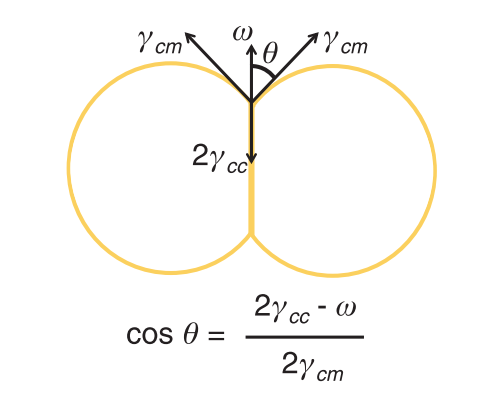
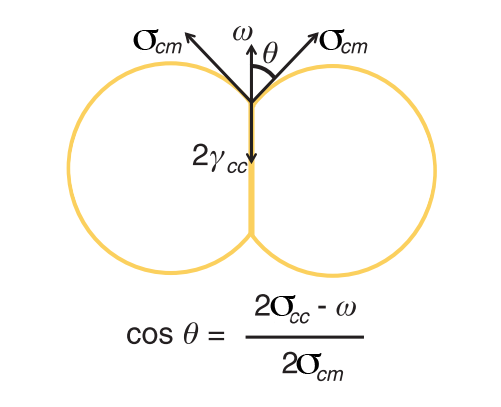
redo tension

diff --git a/conf.py b/conf.py
@@ -237,6 +237,8 @@ preamble = \
 % \\if@twocolumn\\hbox{}\\newpage\\fi\\fi\\fi
 % }
 % \\makeatother
+
+\\renewcommand{\\maketitle}{}
 """
 #if tags.has('latex-print'):
 #    preamble += \

diff --git a/parts/part1.rst b/parts/part1.rst
@@ -352,34 +352,86 @@ Membrane Physics
 ****************
 .. 2
 
-The membrane of living cell is a complex, being the host a large number of
-interacting proteins and lipids each with their own dynamics. Though at the
-scale of cell and liposomes it is interest to model the membrane as a 2D surface
-(that is to say without thickness) characterized by global mechanical properties.
+The cells plasma membrane is a biological membrane that separate the cell from
+its outside environment.  It consist of a lipid bilayer in which are present
+numbers of protein.  A lipid bilayer is formed of two layers of lipid and has a
+thickness of a few nm thickness. The first attempt to theoretically describe
+these membranes have been done by W. Helfrich :cite:`Helfrich` in 1973 in a
+model based on the elasticity and fluidity of lipid bilayers as well as the
+self assembly properties of  lipids.
 
-In the case of closed lipid bilayers, the mechanical property we are interested
-in resume to the expansion modulus :math:`K_a` and the bending modulus
-:math:`K_b`. The value of theses two constant will vary depending on the
-protein and lipid that are present in each of the two leaflet of the lipid
-bilayer.
+.. The membrane of living cell is a complex, being the host a large number of
+.. interacting proteins and lipids each with their own dynamics. Though at the
+.. scale of cell and liposomes it is interest to model the membrane as a 2D surface
+.. (that is to say without thickness) characterized by global mechanical properties.
 
 
-The expansion modulus :math:`K_a` express how much energy is required to
-expand the surface of the lipid bilayer and is due to the exposition of more
-hydrophobic surface to water when expanding it. :math:`K_a` is expressed in
-:math:`J.m^{-2}`, or :math:`N/m` and is close to 2 time the surface tension between the
-lipids and water.
 
-Thus the formalism of surface tension is often used  as physical models in cell
-and liposomes. This allow to link the difference of pressure between two side
-of a membrane to the membrane tension and its curvature; also known as Laplace Law : 
+In the case of close lipid bilayer, the potential energy stored by the
+deformation of a lipid bilayer by unit area can be  written as 
 
 .. math::
-    \Delta P = \gamma \left(\frac{1}{R_1}+\frac{1}{R_2}\right)
 
-Where :math:`{R_1}` and :math:`{R_2}` are the principal curvatures radius which
-are equal in the case of sphere. This technique allow for the measure of tension on liposome or cortical tension of cell using aspiration :cite:`Chaigne2013a`, :cite:`Maitre2012`. 
+    H = H_{ext} + H_{curv}
 
+In which :math:`H_{ext}` is due to the extension/ compression of the membrane,
+and :math:`H_{curv}` is due to the local curvature of the membrane.
+
+The density of energy cost of extension :math:`H_{ext}` cab be written as a
+function  of the elastic area compressibility modulus :math:`K_a` and the
+relative variation surface of the membrane :math:`A` :
+
+.. math::
+
+    H_{ext} = \frac 1 2 K_a \left(\frac{\Delta A}{A}\right)^2
+
+:math:`K_a` express how much energy is required to expand the surface of the
+lipid bilayer and is due to the exposition of more hydrophobic surface to water
+when expanding it. :math:`K_a` is expressed in :math:`J.m^{-2}`, or :math:`N/m`
+and is close to 2 time the surface tension between the lipids and water.
+
+
+For closed lipid bilayer, the total curvature energy can be expressed as the
+sum of curvature energy :math:`H_{curv}` :
+
+
+.. math::
+
+    H_{cur} = \frac 1 2 \kappa (c_1 + c_2 -c_0)^2
+
+In which :math:`kappa` is the bending modulus of the membrane, :math:`c_1,c_2`
+are the principal curvature of the membrane. :math:`c_0` is the spontaneous
+curvature of the membrane, the curvature the membrane would adopt when free of
+external constraint.
+
+.. |sigma| replace:: :math:`\sigma`
+.. |Hext| replace:: :math:`H_{ext}`
+
+An important parameter which is introduced in membrane is the  membrane tension
+|sigma| which is the stress associated with an increase in membrane surface.
+The tension |sigma| is linked to the energy required to expand the membrane |Hext| by :
+
+.. math::
+
+    \sigma &= \frac {\partial H.A} {\partial \Delta A} \\
+    ie &\\
+    H_{ext} &= \sigma\left( \frac {\Delta A} A \right)
+
+In which 
+
+.. math::
+
+    \sigma =  K_a \left( \frac {\Delta A} A \right)
+
+
+Membrane tension is a key parameter as it can be measures in cells, and is one
+of the parameter responsible for cell sorting :cite:`Maitre0212`. In particular
+between cells, the tension of the couple (membrane+actin cortex) can be
+determined by using the contact angle between cell which is the angle between
+interfaces as defined in `Figure #fig-tension-cell`.
+
+
+.. _fig-tension-cell:
 .. figure:: /figs/Cell-Surface-tension.png
     :alt: nothing
     :width: 40%
@@ -387,23 +439,62 @@ are equal in the case of sphere. This technique allow for the measure of tension
     Surface tension govern doublet shape,  adapted from :cite:`Maitre2012`.
     The equilibrium of forces on the contact line govern the angle of contact
     :math:`2.\theta`. :math:`\omega` correspond to the adhesion tension between
-    the two cells, :math:`\gamma_{cm}` correspond to the cortex tension between
-    the cell and  the medium, :math:`\gamma_{cc}` correspond to the cortex
+    the two cells, :math:`\sigma_{cm}` correspond to the tension between
+    the cell and  the medium, :math:`\sigma_{cc}` correspond to the cortex
     tension between the two cells. 
 
-When more than two regions of space are in contact with each other at the same
-location, they form a contact line. The displacement of this contact line often
-lead to the change of contact area between each region which makes the
-reasoning on surface tension and energy difficult. Though the problem can be
-reinterpreted by considering that each interface exerted a force on each unit
-length of the contact line. The force exerted by each interface is proportional
-to the surface tension of the interface and tangent to it on the contact line.
-Most problem can thus be resolved by looking at the equilibrium of the contact
-line and solve the condition for which the force on it equilibrate. In such
-cases, the contact angle on the contact line is a key parameter in the relation
-between each tensions. The measure of contact angle can be use to derive the
-relation of cell membrane+cortex tension between cells in contact
-:cite:`Maitre2012`
+In a later part, we use a reconstituted biomimetic made of liposome. The
+injection of Myosin motors changes the tension of the acto myosin cortex
+attached to a membrane. By determining the geometrical parameters of this
+system, and  in particular the evolution of the contact angle with time, we are
+able to measure the variation of tension of the acto myosin cortex due to
+molecular motors.
+
+.. In the case of closed lipid bilayers, the mechanical property we are interested
+.. in resume to the expansion modulus :math:`K_a` and the bending modulus
+.. :math:`K_b`. Each of these value 
+.. 
+.. 
+.. The value of theses two constant will vary depending on the
+.. protein and lipid that are present in each of the two leaflet of the lipid
+.. bilayer.
+.. 
+.. 
+.. The expansion modulus 
+.. Thus the formalism of surface tension is often used  as physical models in cell
+.. and liposomes. This allow to link the difference of pressure between two side
+.. of a membrane to the membrane tension and its curvature; also known as Laplace Law : 
+.. 
+.. .. math::
+..     \Delta P = \sigma \left(\frac{1}{R_1}+\frac{1}{R_2}\right)
+.. 
+.. Where :math:`{R_1}` and :math:`{R_2}` are the principal curvatures radius which
+.. are equal in the case of sphere. This technique allow for the measure of tension on liposome or cortical tension of cell using aspiration :cite:`Chaigne2013a`, :cite:`Maitre2012`. 
+.. 
+.. .. figure:: /figs/Cell-Surface-tension.png
+..     :alt: nothing
+..     :width: 40%
+.. 
+..     Surface tension govern doublet shape,  adapted from :cite:`Maitre2012`.
+..     The equilibrium of forces on the contact line govern the angle of contact
+..     :math:`2.\theta`. :math:`\omega` correspond to the adhesion tension between
+..     the two cells, :math:`\gamma_{cm}` correspond to the cortex tension between
+..     the cell and  the medium, :math:`\gamma_{cc}` correspond to the cortex
+..     tension between the two cells. 
+.. 
+.. When more than two regions of space are in contact with each other at the same
+.. location, they form a contact line. The displacement of this contact line often
+.. lead to the change of contact area between each region which makes the
+.. reasoning on surface tension and energy difficult. Though the problem can be
+.. reinterpreted by considering that each interface exerted a force on each unit
+.. length of the contact line. The force exerted by each interface is proportional
+.. to the surface tension of the interface and tangent to it on the contact line.
+.. Most problem can thus be resolved by looking at the equilibrium of the contact
+.. line and solve the condition for which the force on it equilibrate. In such
+.. cases, the contact angle on the contact line is a key parameter in the relation
+.. between each tensions. The measure of contact angle can be use to derive the
+.. relation of cell membrane+cortex tension between cells in contact
+.. :cite:`Maitre2012`
 
 .. _viscoelastic:
 
